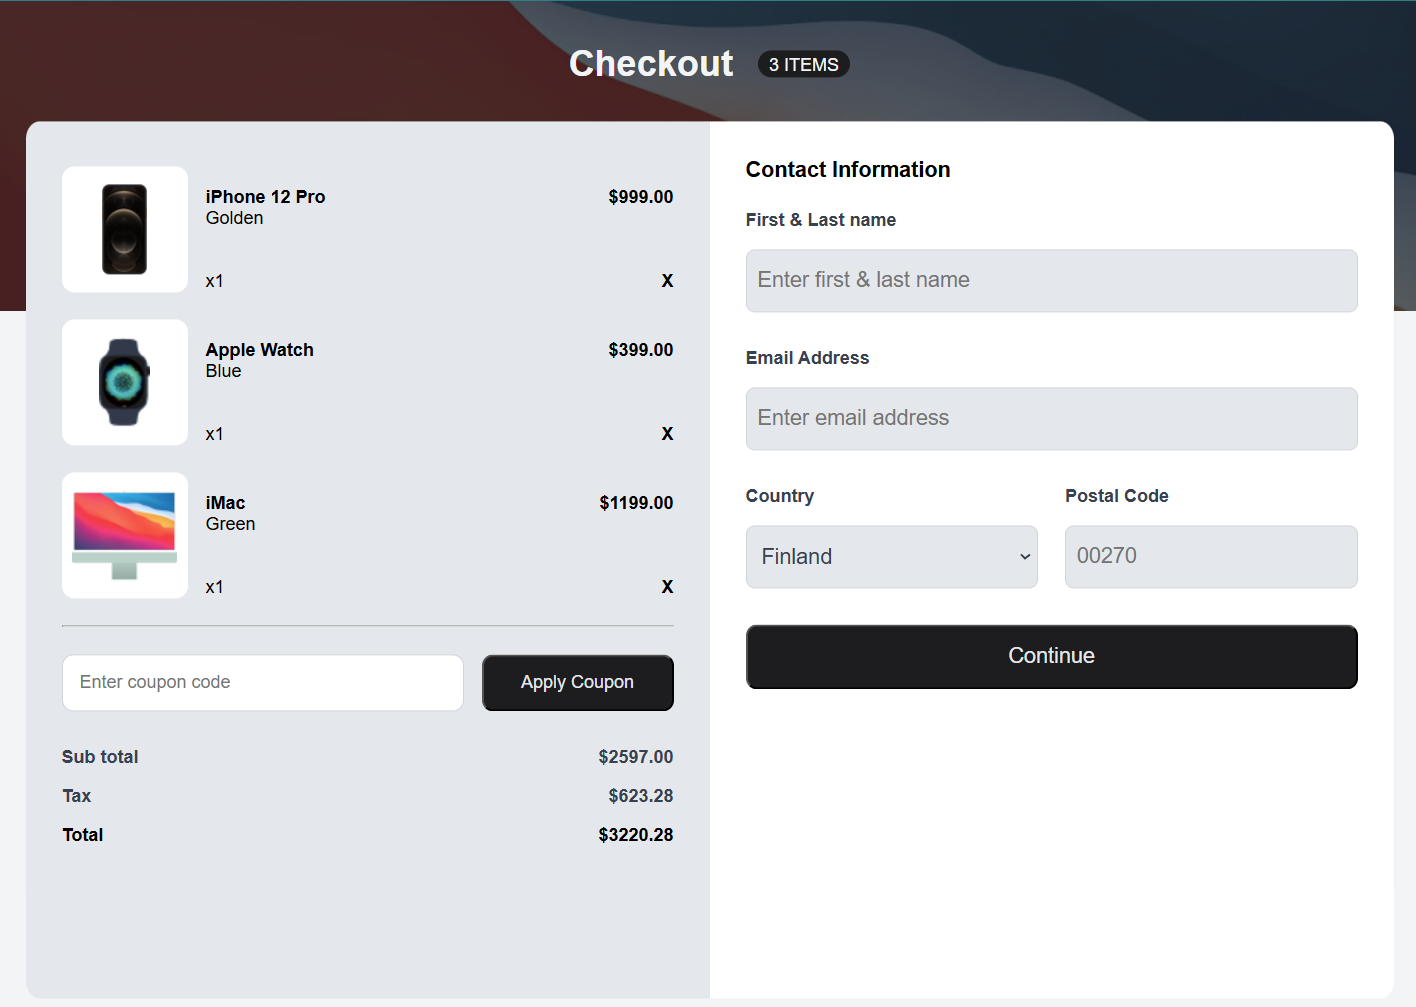
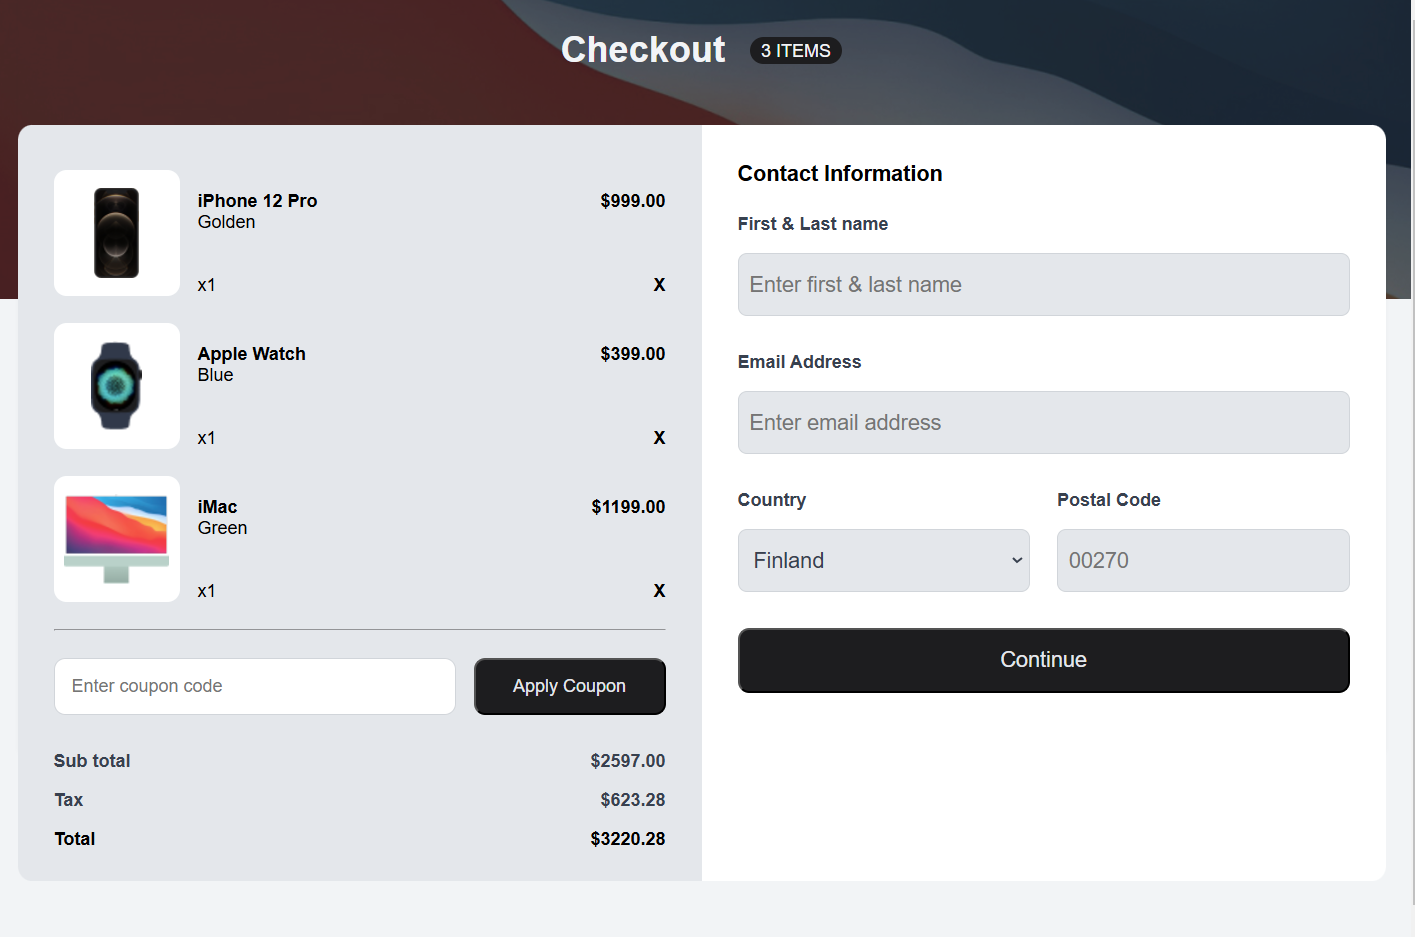
ajustes de altura

Changed region(s): [[0.0, 0.0, 1.0, 0.9594], [0.342, 0.0, 0.3731, 0.0309]]

diff --git a/style.css b/style.css
@@ -34,7 +34,7 @@
     display: flex;
     align-items: center;
     justify-content: center;
-    padding: 2rem;
+    padding: 2rem 2rem 3rem 2rem;
 }
 .title-page {
     font-weight: 700;
@@ -55,9 +55,9 @@
 
 .content-main {
     width: 95vw;
-    height: 85vh;
+    height: 42rem;
     position: absolute;
-    top: 44%;
+    top: 38%;
     left: 50%;
     transform: translate(-50%, -50%);
     box-shadow: 0px 4px 4px -1px rgba(17, 23, 41, 0.05);
